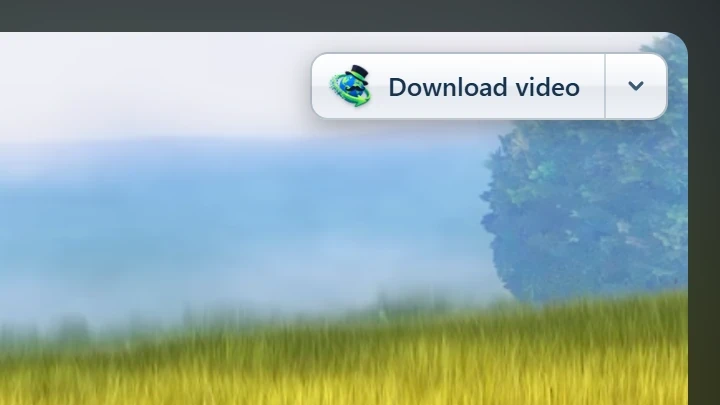
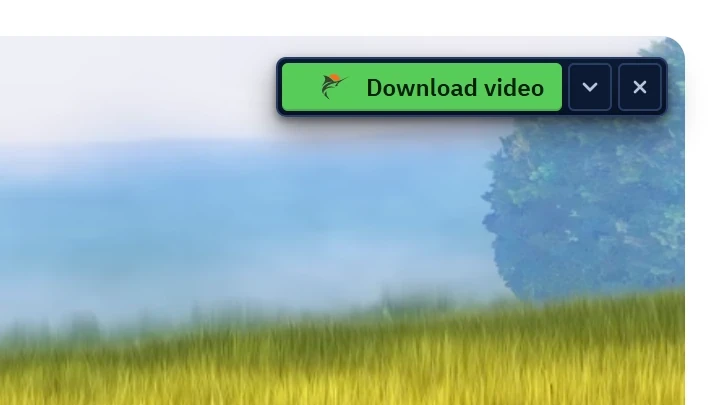
Recapture the transparent video button in Chrome

diff --git a/README.md b/README.md
@@ -210,7 +210,7 @@ Recorded **2026-10-29** (`website/bench/results.json`, status `final`, commit `c
 <table>
   <tr>
     <td width="52%" valign="top">
-      <a href="docs/video.md"><img src="docs/images/video-button-youtube.webp" alt="Floating Download video button and quality selector over an embedded YouTube player"></a><br>
+      <a href="docs/video.md"><img src="docs/images/video-button-youtube.webp" alt="Floating Download video button over a YouTube video"></a><br>
       <sub><strong>In-Page Video &amp; Gallery Capture (<code>bmd-tools</code>):</strong> Signature-verified <code>yt-dlp</code>, <code>ffmpeg</code>, and <code>gallery-dl</code> across 1,000+ sites—up to 4K 60fps HDR or a <code>Most compatible (H.264 + AAC)</code> MP4 preset, with chapters, subtitles, playlists, and multi-connection HLS/DASH via <code>bmd-engine</code>.</sub>
     </td>
     <td width="48%" valign="top" align="center">
